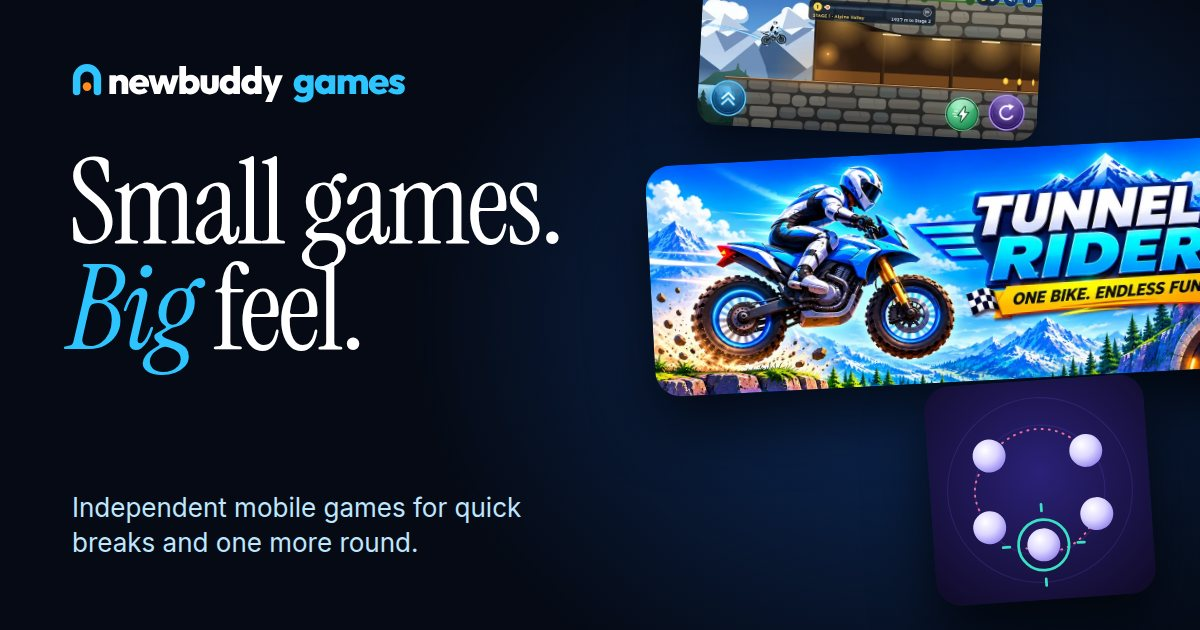
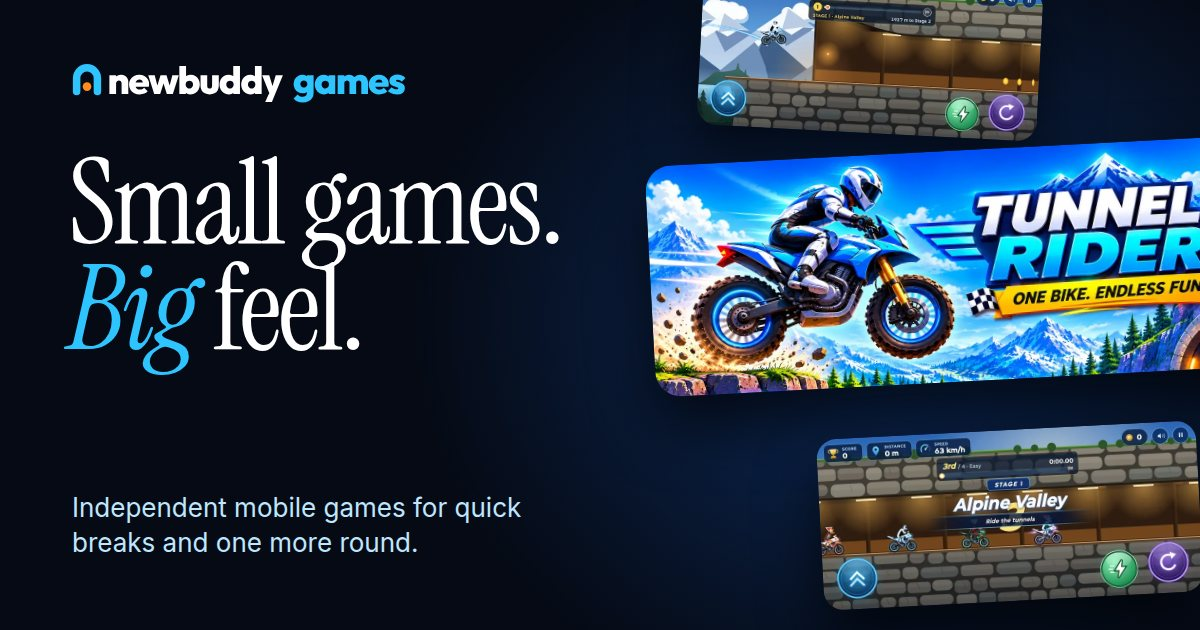
Hide Focus Circles for now
Remove Focus Circles from navigation, home page, games list, privacy
page, sitemap and the home share image. The page stays at
/games/focus-circles/ but is unlinked and noindex.

Changed region(s): [[0.6783, 0.573, 1.0, 0.9651]]

diff --git a/index.html b/index.html
@@ -23,12 +23,12 @@
 <meta property="og:image" content="https://newbuddygames.com/assets/img/og/newbuddy-games-og.jpg">
 <meta property="og:image:width" content="1200">
 <meta property="og:image:height" content="630">
-<meta property="og:image:alt" content="NewBuddy Games: Small games. Big feel. Featuring Tunnel Rider and Focus Circles.">
+<meta property="og:image:alt" content="NewBuddy Games: Small games. Big feel. Featuring Tunnel Rider.">
 <meta name="twitter:card" content="summary_large_image">
 <meta name="twitter:title" content="NewBuddy Games | Independent Mobile Game Studio">
 <meta name="twitter:description" content="Discover NewBuddy Games, an independent mobile game studio creating polished Android and mobile arcade experiences. Explore Tunnel Rider and upcoming games.">
 <meta name="twitter:image" content="https://newbuddygames.com/assets/img/og/newbuddy-games-og.jpg">
-<meta name="twitter:image:alt" content="NewBuddy Games: Small games. Big feel. Featuring Tunnel Rider and Focus Circles.">
+<meta name="twitter:image:alt" content="NewBuddy Games: Small games. Big feel. Featuring Tunnel Rider.">
 <script>document.documentElement.classList.add("js")</script>
 <script type="application/ld+json">
 {
@@ -117,8 +117,11 @@
   }
 
   /* games */
-  .games { display: grid; grid-template-columns: minmax(0, 7fr) minmax(0, 5fr); gap: 20px; margin-top: 40px; }
-  @media (max-width: 860px) { .games { grid-template-columns: 1fr; } }
+  .games { margin-top: 40px; }
+  .games .game { display: grid; grid-template-columns: minmax(0, 1.3fr) minmax(0, 1fr); align-items: stretch; }
+  .games .game .art { border-bottom: 0; border-right: 1px solid var(--line); display: flex; align-items: center; background: #0E4FB5; }
+  .games .game .body { align-content: center; }
+  @media (max-width: 860px) { .games .game { grid-template-columns: 1fr; } .games .game .art { border-right: 0; border-bottom: 1px solid var(--line); } }
   .game { display: flex; flex-direction: column; }
   .game .art { display: block; overflow: hidden; border-bottom: 1px solid var(--line); }
   .game .art img { width: 100%; transition: scale .6s; }
@@ -166,7 +169,6 @@
       <ul>
         <li><a href="/games/">Games</a></li>
         <li><a href="/games/tunnel-rider/">Tunnel Rider</a></li>
-        <li><a href="/games/focus-circles/">Focus Circles</a></li>
         <li><a href="/#studio">Studio</a></li>
         <li><a href="/#contact">Contact</a></li>
       </ul>
@@ -184,9 +186,8 @@
         <a class="btn btn-primary" href="/games/tunnel-rider/">Explore Tunnel Rider</a>
         <a class="btn btn-ghost" href="/games/">See all games</a>
       </div>
-      <ul class="featured" aria-label="Our games">
+      <ul class="featured" aria-label="Featured game">
         <li><a href="/games/tunnel-rider/"><img src="/assets/img/tunnel-rider/tunnel-rider-key-art-640.webp" srcset="/assets/img/tunnel-rider/tunnel-rider-key-art-640.webp 640w" sizes="48px" width="640" height="231" alt="" loading="eager" decoding="async"><span><b>Tunnel Rider</b><small>Android &middot; Coming soon to Google Play</small></span><span class="arrow" aria-hidden="true">&rarr;</span></a></li>
-        <li><a href="/games/focus-circles/"><img src="/assets/img/focus-circles/focus-circles-tracking-artwork.svg" alt="" width="48" height="48"><span><b>Focus Circles</b><small>In development</small></span><span class="arrow" aria-hidden="true">&rarr;</span></a></li>
       </ul>
     </div>
 
@@ -197,15 +198,15 @@
       <figure class="c" style="--x:3;--y:4;--w:54;--r:-3deg;--d:1;--t:7s">
         <span class="frame"><img src="/assets/img/tunnel-rider/tunnel-rider-alpine-valley-gameplay-800.webp" srcset="/assets/img/tunnel-rider/tunnel-rider-alpine-valley-gameplay-480.webp 480w, /assets/img/tunnel-rider/tunnel-rider-alpine-valley-gameplay-800.webp 800w" sizes="(max-width: 860px) 50vw, 370px" width="800" height="360" alt="Tunnel Rider in-game screenshot: the rider jumps from a mountain ledge toward a lit tunnel in Alpine Valley" loading="eager" decoding="async"><figcaption class="cap">Alpine Valley <i>&middot; In-game</i></figcaption></span>
       </figure>
-      <figure class="c" style="--x:6;--y:71;--w:50;--r:2deg;--d:3;--t:9s">
+      <figure class="c" style="--x:3;--y:71;--w:50;--r:2deg;--d:3;--t:9s">
         <span class="frame"><img src="/assets/img/tunnel-rider/tunnel-rider-neon-night-artwork-800.webp" srcset="/assets/img/tunnel-rider/tunnel-rider-neon-night-artwork-480.webp 480w, /assets/img/tunnel-rider/tunnel-rider-neon-night-artwork-800.webp 800w" sizes="(max-width: 860px) 46vw, 340px" width="800" height="450" alt="Tunnel Rider artwork of the Neon Night stage: a rider on a neon-lit tunnel platform under a full moon" loading="eager" decoding="async"><figcaption class="cap">Neon Night <i>&middot; Artwork</i></figcaption></span>
       </figure>
       <a class="c c-main" href="/games/tunnel-rider/" style="--x:2;--y:35;--w:96;--r:-2deg;--d:0;--t:10s">
         <span class="frame"><img src="/assets/img/tunnel-rider/tunnel-rider-key-art-960.webp" srcset="/assets/img/tunnel-rider/tunnel-rider-key-art-640.webp 640w, /assets/img/tunnel-rider/tunnel-rider-key-art-960.webp 960w, /assets/img/tunnel-rider/tunnel-rider-key-art-1280.webp 1280w" sizes="(max-width: 860px) 92vw, 640px" width="1280" height="462" alt="Tunnel Rider key art: a rider on a blue dirt bike leaps off a cliff beside the Tunnel Rider logo" loading="eager" decoding="async" fetchpriority="high"><span class="cap">Tunnel Rider <i>&middot; Explore the game</i></span></span>
       </a>
-      <a class="c c-fc" href="/games/focus-circles/" style="--x:62;--y:66;--w:32;--r:-3deg;--d:4;--t:8.5s">
-        <span class="frame"><img src="/assets/img/focus-circles/focus-circles-tracking-artwork.svg" alt="Focus Circles artwork: identical balls shuffle while one target ball is marked with a focus ring" width="400" height="400"><span class="cap"><span class="nm">Focus Circles<br></span><i>In development</i></span></span>
-      </a>
+      <figure class="c" style="--x:53;--y:73;--w:44;--r:-2.5deg;--d:4;--t:8.5s">
+        <span class="frame"><img src="/assets/img/tunnel-rider/tunnel-rider-race-mode-800.webp" srcset="/assets/img/tunnel-rider/tunnel-rider-race-mode-480.webp 480w, /assets/img/tunnel-rider/tunnel-rider-race-mode-800.webp 800w" sizes="(max-width: 860px) 40vw, 300px" width="800" height="360" alt="Tunnel Rider in-game screenshot: four riders on the start line in race mode" loading="eager" decoding="async"><figcaption class="cap">Race mode <i>&middot; In-game</i></figcaption></span>
+      </figure>
       <span class="coin" aria-hidden="true" style="--x:56;--y:4;--w:7;--d:5"></span>
     </div>
   </div>
@@ -215,7 +216,7 @@
   <div class="wrap">
     <span class="eyebrow reveal">Our games</span>
     <h2 class="h2 reveal" id="games-title">A growing collection of <em>original</em> games.</h2>
-    <p class="lede reveal">Every NewBuddy game is built around one idea you can understand in seconds and keep getting better at.</p>
+    <p class="lede reveal">Every NewBuddy game is built around one idea you can understand in seconds and keep getting better at. More are on the way.</p>
     <div class="games">
       <article class="card game reveal" aria-labelledby="g-tr">
         <a class="art" href="/games/tunnel-rider/" tabindex="-1" aria-hidden="true"><img src="/assets/img/tunnel-rider/tunnel-rider-key-art-960.webp" srcset="/assets/img/tunnel-rider/tunnel-rider-key-art-640.webp 640w, /assets/img/tunnel-rider/tunnel-rider-key-art-960.webp 960w, /assets/img/tunnel-rider/tunnel-rider-key-art-1280.webp 1280w" sizes="(max-width: 860px) 92vw, 680px" width="1280" height="462" alt="" loading="lazy" decoding="async"></a>
@@ -224,15 +225,6 @@
           <h3 id="g-tr" class="tr-name">TUNNEL <span>RIDER</span></h3>
           <p>A 2D side-view motorcycle arcade game. Launch from one mountain tunnel to the next, steer in mid-air, land level and ride through five stages as the speed keeps climbing.</p>
           <div class="btn-row"><a class="btn btn-primary" href="/games/tunnel-rider/">Explore Tunnel Rider</a></div>
-        </div>
-      </article>
-      <article class="card game fc reveal" aria-labelledby="g-fc">
-        <a class="art" href="/games/focus-circles/" tabindex="-1" aria-hidden="true"><img src="/assets/img/focus-circles/focus-circles-tracking-artwork.svg" alt="" width="400" height="400" loading="lazy"></a>
-        <div class="body">
-          <ul class="chips" aria-label="Status"><li class="chip mint">In development</li></ul>
-          <h3 id="g-fc">Focus Circles</h3>
-          <p>A casual tracking game we&rsquo;re working on now. Keep your eye on one ball while the circles shuffle and move, then pick out the one you started with.</p>
-          <div class="btn-row"><a class="btn btn-ghost" href="/games/focus-circles/">About Focus Circles</a></div>
         </div>
       </article>
     </div>
@@ -244,7 +236,7 @@
     <div class="reveal">
       <span class="eyebrow">The studio</span>
       <h2 class="h2" id="studio-title">Your new buddy for a <em>five&#8209;minute</em> break.</h2>
-      <p class="lede">NewBuddy Games is an independent studio making original mobile games. Each one starts from a single idea that&rsquo;s easy to grasp, like jumping the gap or following the ball.</p>
+      <p class="lede">NewBuddy Games is an independent studio making original mobile games. Each one starts from a single idea that&rsquo;s easy to grasp, like timing the jump to the next tunnel.</p>
       <p class="lede">Then we spend our time on the parts you feel: responsive controls, clear feedback and progression that gives you a reason to come back.</p>
     </div>
     <ul class="pillars reveal">
@@ -282,7 +274,6 @@
         <h2 id="f-games">Games</h2>
         <ul>
           <li><a href="/games/tunnel-rider/">Tunnel Rider</a></li>
-          <li><a href="/games/focus-circles/">Focus Circles</a></li>
           <li><a href="/games/">All games</a></li>
         </ul>
       </nav>

diff --git a/games/index.html b/games/index.html
@@ -4,7 +4,7 @@
 <meta charset="utf-8">
 <meta name="viewport" content="width=device-width, initial-scale=1">
 <title>Games | NewBuddy Games</title>
-<meta name="description" content="All games from NewBuddy Games: Tunnel Rider, a motorcycle arcade game coming soon to Google Play, and Focus Circles, a tracking game in development.">
+<meta name="description" content="Games from NewBuddy Games, an independent mobile studio. Featuring Tunnel Rider, a 2D motorcycle arcade game coming soon to Google Play.">
 <link rel="canonical" href="https://newbuddygames.com/games/">
 <meta name="theme-color" content="#050A14">
 <link rel="icon" href="/favicon.ico" sizes="32x32">
@@ -18,7 +18,7 @@
 <meta property="og:site_name" content="NewBuddy Games">
 <meta property="og:locale" content="en_US">
 <meta property="og:title" content="Games | NewBuddy Games">
-<meta property="og:description" content="All games from NewBuddy Games: Tunnel Rider, a motorcycle arcade game coming soon to Google Play, and Focus Circles, a tracking game in development.">
+<meta property="og:description" content="Games from NewBuddy Games, an independent mobile studio. Featuring Tunnel Rider, a 2D motorcycle arcade game coming soon to Google Play.">
 <meta property="og:url" content="https://newbuddygames.com/games/">
 <meta property="og:image" content="https://newbuddygames.com/assets/img/og/newbuddy-games-og.jpg">
 <meta property="og:image:width" content="1200">
@@ -26,7 +26,7 @@
 <meta property="og:image:alt" content="NewBuddy Games: Small games. Big feel.">
 <meta name="twitter:card" content="summary_large_image">
 <meta name="twitter:title" content="Games | NewBuddy Games">
-<meta name="twitter:description" content="All games from NewBuddy Games: Tunnel Rider, a motorcycle arcade game coming soon to Google Play, and Focus Circles, a tracking game in development.">
+<meta name="twitter:description" content="Games from NewBuddy Games, an independent mobile studio. Featuring Tunnel Rider, a 2D motorcycle arcade game coming soon to Google Play.">
 <meta name="twitter:image" content="https://newbuddygames.com/assets/img/og/newbuddy-games-og.jpg">
 <meta name="twitter:image:alt" content="NewBuddy Games: Small games. Big feel.">
 <script>document.documentElement.classList.add("js")</script>
@@ -50,12 +50,6 @@
             "position": 1,
             "url": "https://newbuddygames.com/games/tunnel-rider/",
             "name": "Tunnel Rider"
-          },
-          {
-            "@type": "ListItem",
-            "position": 2,
-            "url": "https://newbuddygames.com/games/focus-circles/",
-            "name": "Focus Circles"
           }
         ]
       }
@@ -114,7 +108,6 @@
       <ul>
         <li><a href="/games/" aria-current="page">Games</a></li>
         <li><a href="/games/tunnel-rider/">Tunnel Rider</a></li>
-        <li><a href="/games/focus-circles/">Focus Circles</a></li>
         <li><a href="/#studio">Studio</a></li>
         <li><a href="/#contact">Contact</a></li>
       </ul>
@@ -129,7 +122,7 @@
     <div class="page-head">
       <span class="eyebrow">Our games</span>
       <h1 id="title">Small games. <em>Big</em> feel.</h1>
-      <p class="lede">Original mobile games built around one clear idea each. Here&rsquo;s what we&rsquo;ve made and what we&rsquo;re working on.</p>
+      <p class="lede">Original mobile games built around one clear idea each. More are on the way.</p>
     </div>
     <ul class="list">
       <li class="card row reveal">
@@ -140,15 +133,6 @@
           <p>A 2D side-view motorcycle arcade game. Jump between mountain tunnels, steer your flight and land level as the speed keeps climbing.</p>
           <ul class="points"><li>Five stages, 15 stars to earn</li><li>Garage with liveries, outfits and upgrades</li><li>Races, optional global rankings and challenge links</li></ul>
           <div class="btn-row"><a class="btn btn-primary" href="/games/tunnel-rider/">Explore Tunnel Rider</a></div>
-        </div>
-      </li>
-      <li class="card row fc reveal">
-        <a class="art" href="/games/focus-circles/" tabindex="-1" aria-hidden="true"><img src="/assets/img/focus-circles/focus-circles-tracking-artwork.svg" alt="" width="400" height="400" loading="lazy"></a>
-        <div class="body">
-          <ul class="chips" aria-label="Status"><li class="chip mint">In development</li></ul>
-          <h2>Focus Circles</h2>
-          <p>A casual tracking game. Keep your eye on one ball as the circles shuffle and move, then pick out the one you started with.</p>
-          <div class="btn-row"><a class="btn btn-ghost" href="/games/focus-circles/">About Focus Circles</a></div>
         </div>
       </li>
     </ul>
@@ -166,7 +150,6 @@
         <h2 id="f-games">Games</h2>
         <ul>
           <li><a href="/games/tunnel-rider/">Tunnel Rider</a></li>
-          <li><a href="/games/focus-circles/">Focus Circles</a></li>
           <li><a href="/games/">All games</a></li>
         </ul>
       </nav>

diff --git a/games/focus-circles/index.html b/games/focus-circles/index.html
@@ -5,7 +5,7 @@
 <meta name="viewport" content="width=device-width, initial-scale=1">
 <title>Focus Circles: Upcoming Tracking Game | NewBuddy Games</title>
 <meta name="description" content="Focus Circles is an upcoming tracking game from NewBuddy Games. Keep your eye on one ball as the circles shuffle, then pick the one you started with.">
-<link rel="canonical" href="https://newbuddygames.com/games/focus-circles/">
+<meta name="robots" content="noindex">
 <meta name="theme-color" content="#0E0A26">
 <link rel="icon" href="/favicon.ico" sizes="32x32">
 <link rel="icon" href="/assets/brand/favicon.svg" type="image/svg+xml">
@@ -145,7 +145,6 @@
       <ul>
         <li><a href="/games/">Games</a></li>
         <li><a href="/games/tunnel-rider/">Tunnel Rider</a></li>
-        <li><a href="/games/focus-circles/" aria-current="page">Focus Circles</a></li>
         <li><a href="/#studio">Studio</a></li>
         <li><a href="/#contact">Contact</a></li>
       </ul>
@@ -224,7 +223,6 @@
         <h2 id="f-games">Games</h2>
         <ul>
           <li><a href="/games/tunnel-rider/">Tunnel Rider</a></li>
-          <li><a href="/games/focus-circles/">Focus Circles</a></li>
           <li><a href="/games/">All games</a></li>
         </ul>
       </nav>

diff --git a/privacy/index.html b/privacy/index.html
@@ -89,7 +89,6 @@
       <ul>
         <li><a href="/games/">Games</a></li>
         <li><a href="/games/tunnel-rider/">Tunnel Rider</a></li>
-        <li><a href="/games/focus-circles/">Focus Circles</a></li>
         <li><a href="/#studio">Studio</a></li>
         <li><a href="/#contact">Contact</a></li>
       </ul>
@@ -107,7 +106,6 @@
   <p>Each NewBuddy game has its own privacy policy that explains what the game stores and how to delete it.</p>
   <ul>
     <li><a href="/games/tunnel-rider/privacy/">Tunnel Rider privacy policy</a></li>
-    <li>Focus Circles is in development. Its privacy policy will be published here before release.</li>
   </ul>
 
   <h2>This website</h2>
@@ -130,7 +128,6 @@
         <h2 id="f-games">Games</h2>
         <ul>
           <li><a href="/games/tunnel-rider/">Tunnel Rider</a></li>
-          <li><a href="/games/focus-circles/">Focus Circles</a></li>
           <li><a href="/games/">All games</a></li>
         </ul>
       </nav>

diff --git a/games/tunnel-rider/index.html b/games/tunnel-rider/index.html
@@ -271,7 +271,6 @@
       <ul>
         <li><a href="/games/">Games</a></li>
         <li><a href="/games/tunnel-rider/" aria-current="page">Tunnel Rider</a></li>
-        <li><a href="/games/focus-circles/">Focus Circles</a></li>
         <li><a href="/#studio">Studio</a></li>
         <li><a href="/#contact">Contact</a></li>
       </ul>
@@ -461,7 +460,6 @@
         <h2 id="f-games">Games</h2>
         <ul>
           <li><a href="/games/tunnel-rider/">Tunnel Rider</a></li>
-          <li><a href="/games/focus-circles/">Focus Circles</a></li>
           <li><a href="/games/">All games</a></li>
         </ul>
       </nav>

diff --git a/games/tunnel-rider/privacy/index.html b/games/tunnel-rider/privacy/index.html
@@ -102,7 +102,6 @@
       <ul>
         <li><a href="/games/">Games</a></li>
         <li><a href="/games/tunnel-rider/">Tunnel Rider</a></li>
-        <li><a href="/games/focus-circles/">Focus Circles</a></li>
         <li><a href="/#studio">Studio</a></li>
         <li><a href="/#contact">Contact</a></li>
       </ul>
@@ -175,7 +174,6 @@
         <h2 id="f-games">Games</h2>
         <ul>
           <li><a href="/games/tunnel-rider/">Tunnel Rider</a></li>
-          <li><a href="/games/focus-circles/">Focus Circles</a></li>
           <li><a href="/games/">All games</a></li>
         </ul>
       </nav>

diff --git a/404.html b/404.html
@@ -42,7 +42,6 @@
       <ul>
         <li><a href="/games/">Games</a></li>
         <li><a href="/games/tunnel-rider/">Tunnel Rider</a></li>
-        <li><a href="/games/focus-circles/">Focus Circles</a></li>
         <li><a href="/#studio">Studio</a></li>
         <li><a href="/#contact">Contact</a></li>
       </ul>
@@ -66,7 +65,6 @@
         <h2 id="f-games">Games</h2>
         <ul>
           <li><a href="/games/tunnel-rider/">Tunnel Rider</a></li>
-          <li><a href="/games/focus-circles/">Focus Circles</a></li>
           <li><a href="/games/">All games</a></li>
         </ul>
       </nav>
